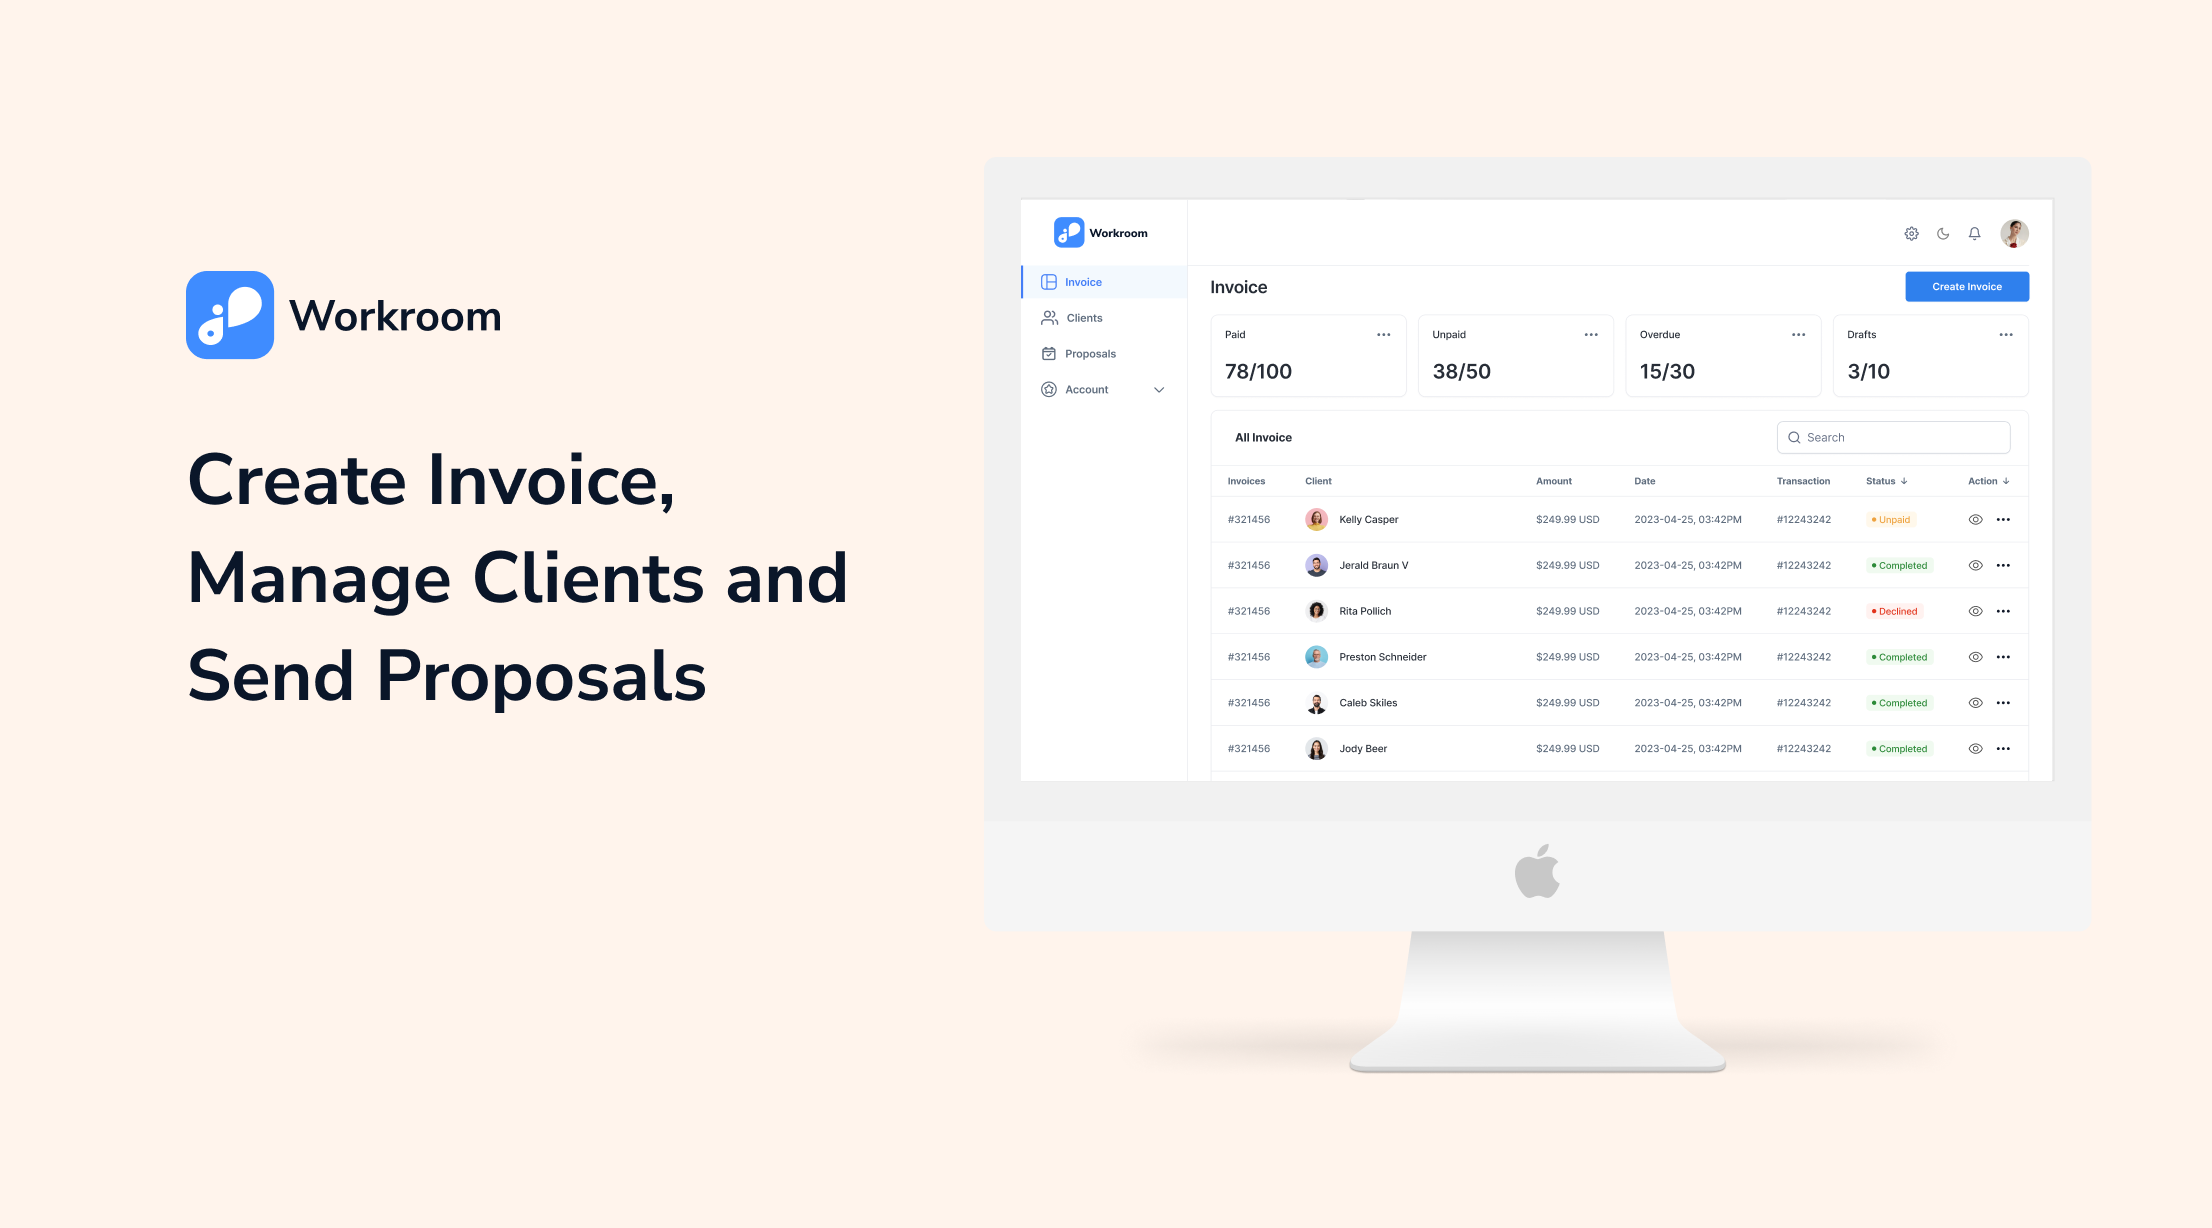
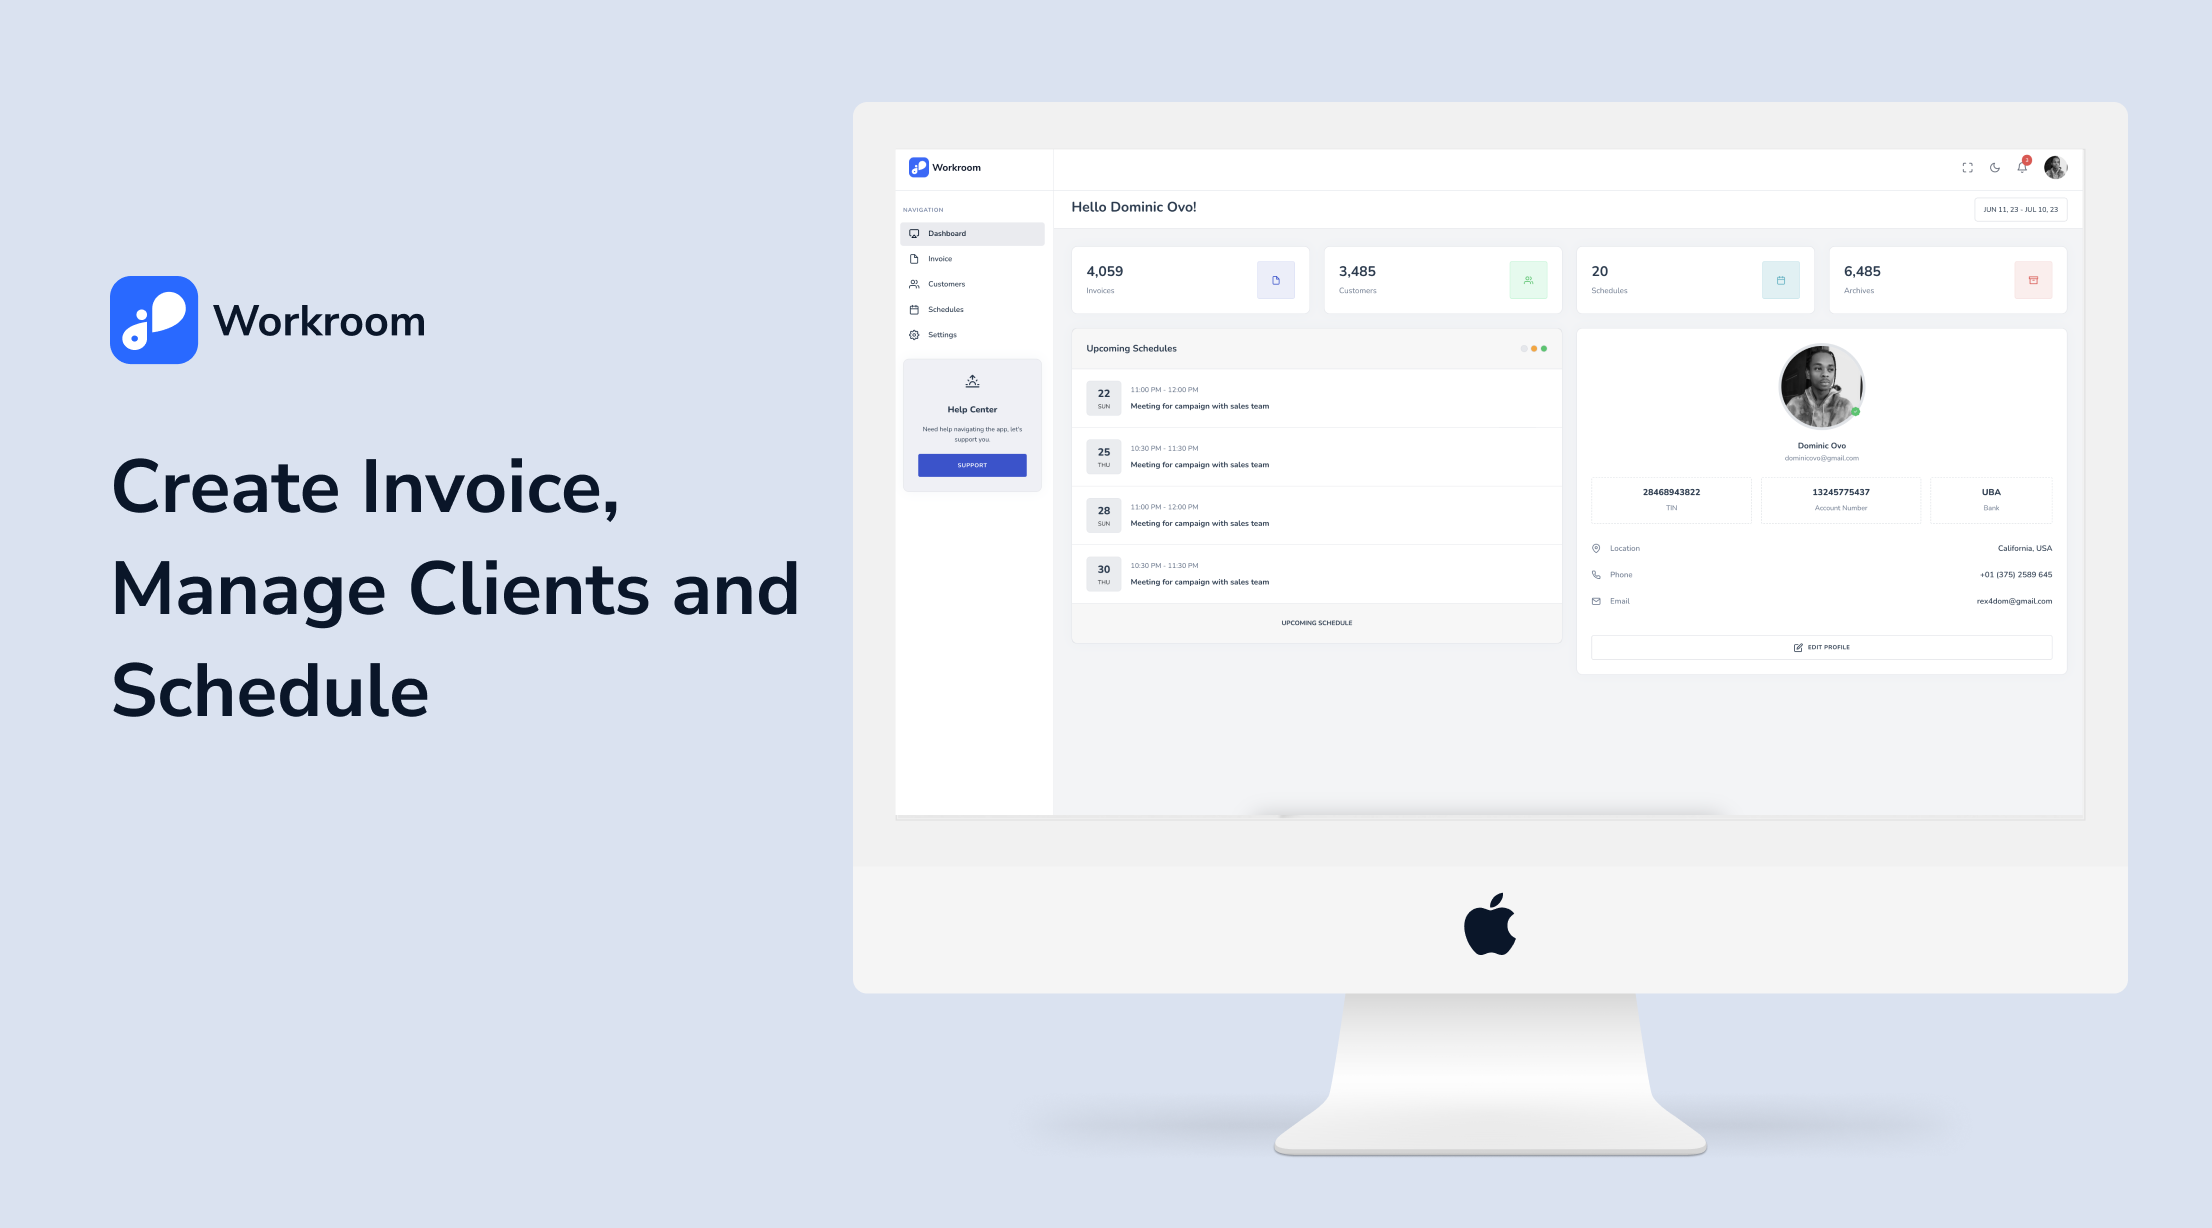
workroom update

diff --git a/workroom.html b/workroom.html
@@ -126,10 +126,10 @@
                     <!-- work image -->
                 </div>
 
-                <div class="col-md-10 mt-60 mb-60">
+                <div class="col-md-10 mt-60 mb-30">
                 <h3 class="font-w-700 mb-4">User Interface</h3>
-                <h5><strong>Authentication Flow </strong> </h5><br/>
-                <p>The Authentication flow was designed to easily help the users create account in a few easy steps first by automatically verifying their phone number, email address and password, then personal and company information and a page to invite team members. </p>
+                <h5><strong>Authentication Flow:</strong> </h5><br/>
+                <p>The Authentication flow was designed to easily help the users create account in a few easy steps first by verifying their email address, so they can be stored on the database, also when creating account I ensured to put the password visibility to help users know when they entered a wrong password, and a tooltip to tell your password strength. </p>
                 </div>
                 <div class="col-md-12">
                     <img class="img-fluid rounded-lg" src="img/works/workroom auth.png" alt="">
@@ -137,17 +137,39 @@
                 </div>
 
 
-                <div class="col-md-10 mt-60 mb-60">
-                <h5><strong>Invoice</strong> </h5><br/>
-                <p>The Dashboard page was designed to accommodate 90% of the task the user wants to perform in the office environment this includes; See co-workers workload, Nearest events, Projects assigned, Activity stream, and other easily accessible navigations.</p>
+                <div class="col-md-10 mt-60 mb-30">
+                <h5><strong>The Dashboard:</strong> </h5><br/>
+                <p>The Dashboard page was designed to accommodate 90% of the task the user wants to perform in the office environment this includes; Viewing Invoices to create an Invoice, Viewing Customers, Upcoming Schedules, Archives, and Profile. The idea of the dashboard is to give the users an overview of the app and help them navigate faster.</p>
                 </div>
                 <div class="col-md-12">
-                    <img class="img-fluid rounded-lg" src="img/works/workroom invoice.png" alt="">
+                    <img class="img-fluid rounded-lg" src="img/works/workroom-dashboard.png" alt="">
+                    <!-- work image -->
+                </div>
+
+                <div class="col-md-10 mt-60 mb-30">
+                    <h5><strong>All Invoices:</strong> </h5>
+                </div>
+                <div class="col-md-12">
+                    <img class="img-fluid rounded-lg" src="img/works/Workroom-Invoice.png" alt="">
+                    <!-- work image -->
+                </div>
+                <div class="col-md-10 mt-60 mb-30">
+                    <h5><strong>Create Invoice:</strong> </h5>
+                </div>
+                <div class="col-md-12">
+                    <img class="img-fluid rounded-lg" src="img/works/Workroom-Invoice-Create.png" alt="">
+                    <!-- work image -->
+                </div>
+                <div class="col-md-10 mt-60 mb-30">
+                    <h5><strong>Preview Invoice:</strong> </h5>
+                </div>
+                <div class="col-md-12">
+                    <img class="img-fluid rounded-lg" src="img/works/Workroom-Invoice-View.png" alt="">
                     <!-- work image -->
                 </div>
                 <div class="col-md-10 mt-60 mb-60">
                     <h5><strong>Invoice email</strong> </h5><br/>
-                    <p>The invoice seconds invoices directly to clients' email addresses. The system generates an email containing the invoice embedded within the email body. It also includes a personalized message, payment instructions, and additional information the business wants to communicate to the client.</p>
+                    <p>The invoice seconds invoices directly to clients email addresses. The system generates an email containing the invoice embedded within the email body. It also includes a personalized message, payment instructions, and additional information the business wants to communicate to the client.</p>
                     </div>
                     <div class="col-md-12">
                         <img class="img-fluid rounded-lg" src="img/works/workroom email.png" alt="">

diff --git a/index.html b/index.html
@@ -93,7 +93,7 @@
                 </div>
     
                     <div class="col-md-6 mt-40">
-                        <div class="work-overlay card bg-dark border-0">
+                        <div class="work-overlay card bg-dark border-0"> 
                             <img class="card-img" src="img/works/jpg banner.png" alt="works">
                             <a class="d-block text-dark" href="jpgstore">
                                 <div class="card-img-overlay d-flex align-items-end" data-bgc="#4f4f4f">
@@ -242,7 +242,7 @@
         <div class="container">
             <div class="row align-items-end">
                 <div class="col-12 col-md-10">
-                    <p class="text-muted small">&copy; 2021. All rights reserved. Designed and developed by <a href="index.html" class="line-link">Me</a></p>
+                    <p class="text-muted small">&copy; 2023. All rights reserved. Designed and developed by <a href="index.html" class="line-link">Me</a></p>
                 </div>
             </div>
         </div>
